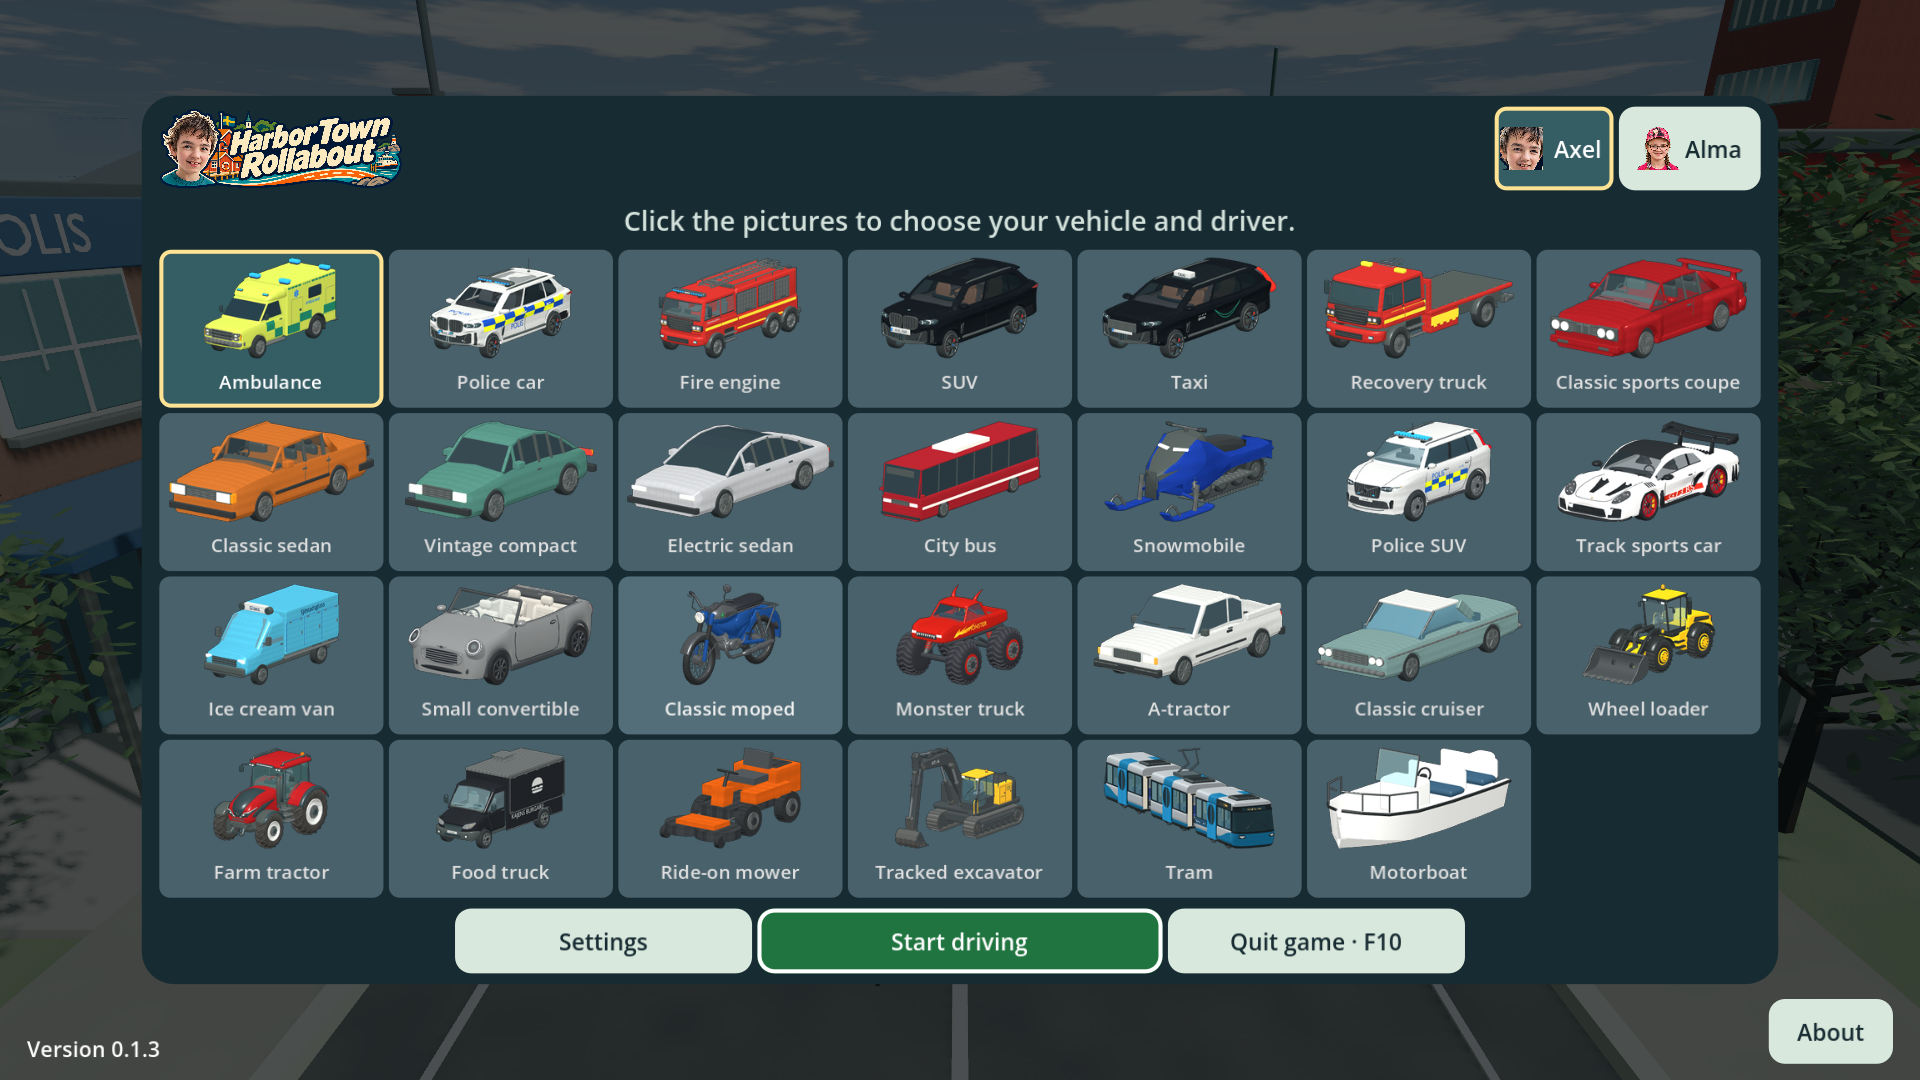
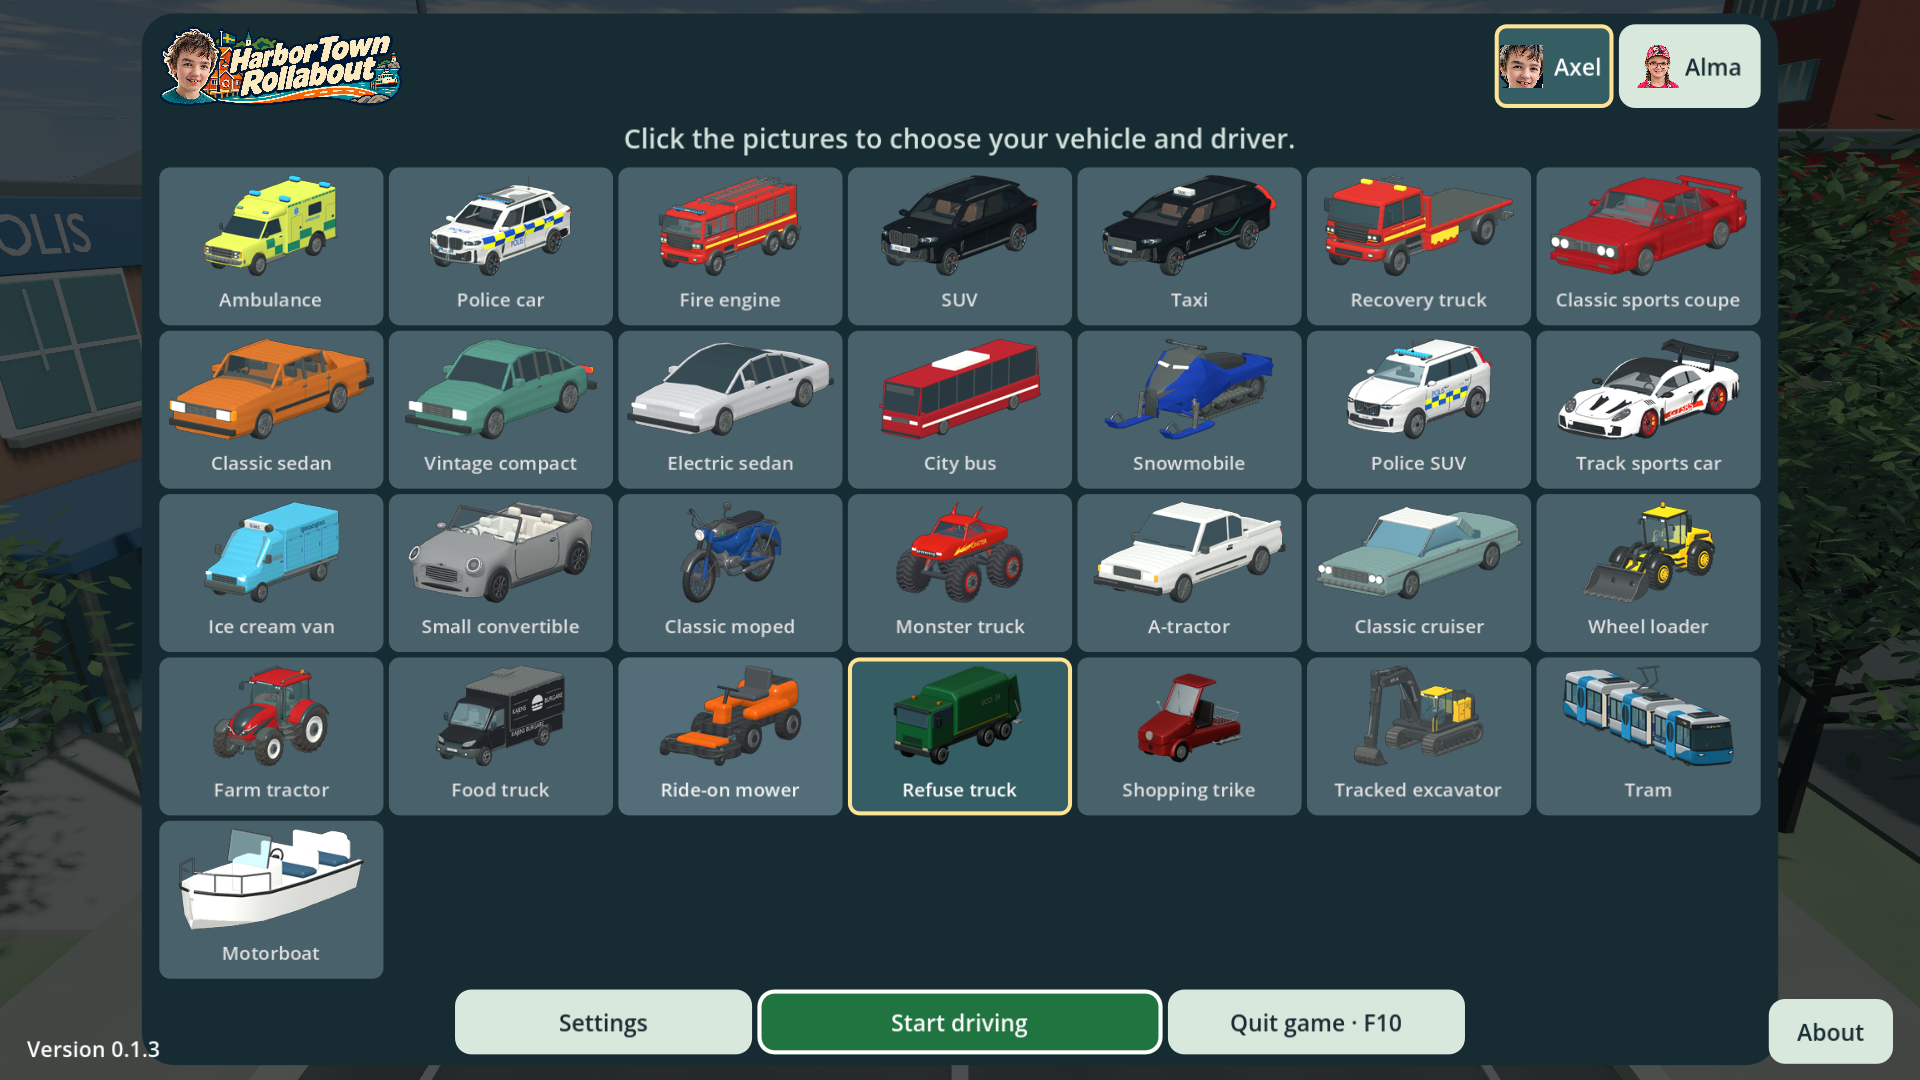
Show the expanded vehicle menu and explain the refuse round

diff --git a/README.md b/README.md
@@ -76,6 +76,12 @@ Land vehicles slow down at the quay edge in both directions. The two road bridge
 
 The double-ended passenger ferry **Lotten** runs between two landings in the canal. Walk onto either landing and press **F** or select **Board Lotten** when the ferry is alongside. The ferry follows its own route. Look around with the mouse during the crossing. Press **F** underway to request the next landing, or press it again to stay aboard. You can also step ashore with **F** during a stop. Its editable Blender model is in `source_blender/Lotten.blend`.
 
+## Refuse collection and shopping trike
+
+In the source build, choose the green **Refuse truck** and open the phone with **T** to accept the collection round. Stop at the square and the clinic to empty the bins, then unload at the marina. Each stop earns 10 points and 10 coins. The truck takes longer to accelerate as the load grows.
+
+For a small vehicle, choose the red **Shopping trike**. It has two front wheels that steer, a single rear wheel and a wire basket behind the seat.
+
 ## Taxi and horns
 
 Choose the **Taxi** picture and press **Start driving**. Open the phone with **T** and accept the assignment to pick up a passenger. Follow the green arrows along the streets and over a bridge when needed. Stop at the marker to board or drop off your fare. Gentle driving handles boarding automatically. The next fare appears after drop-off.
